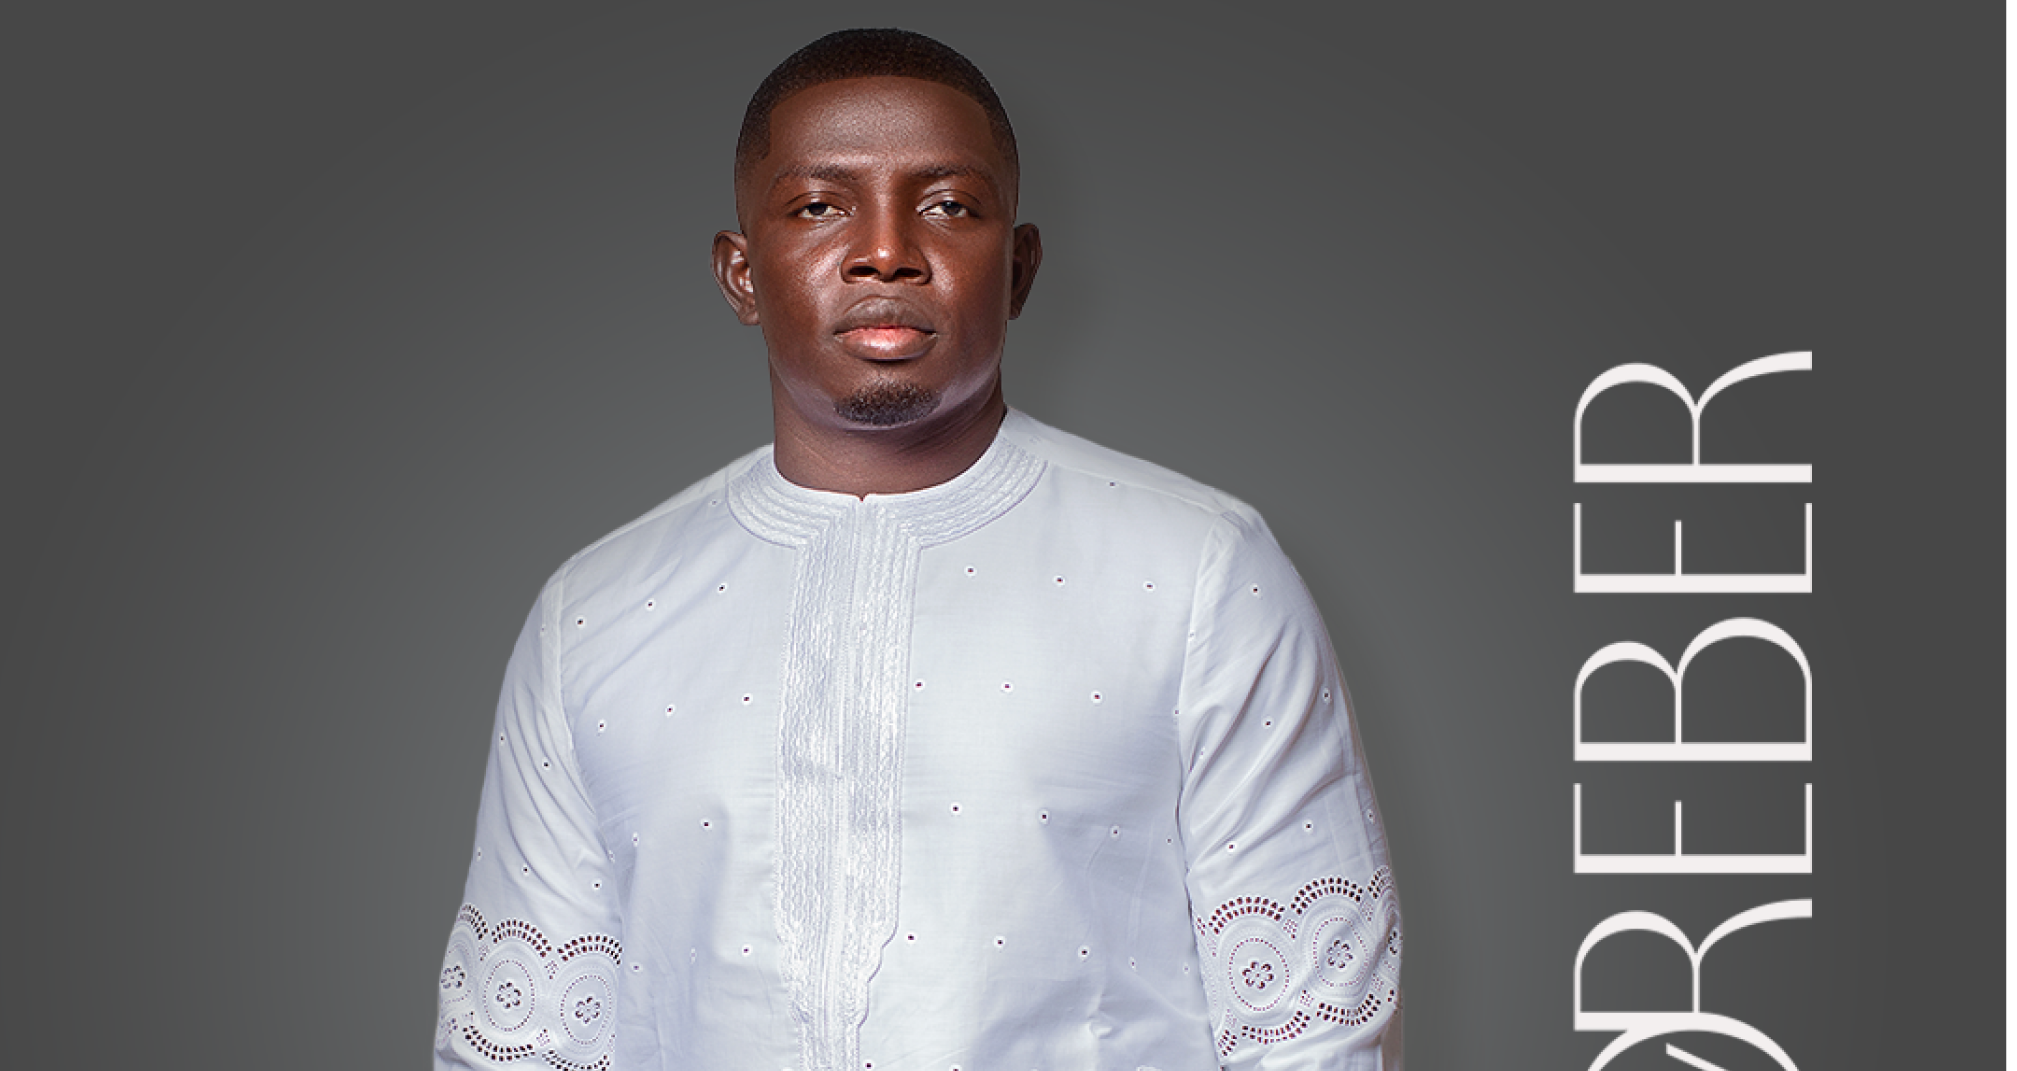
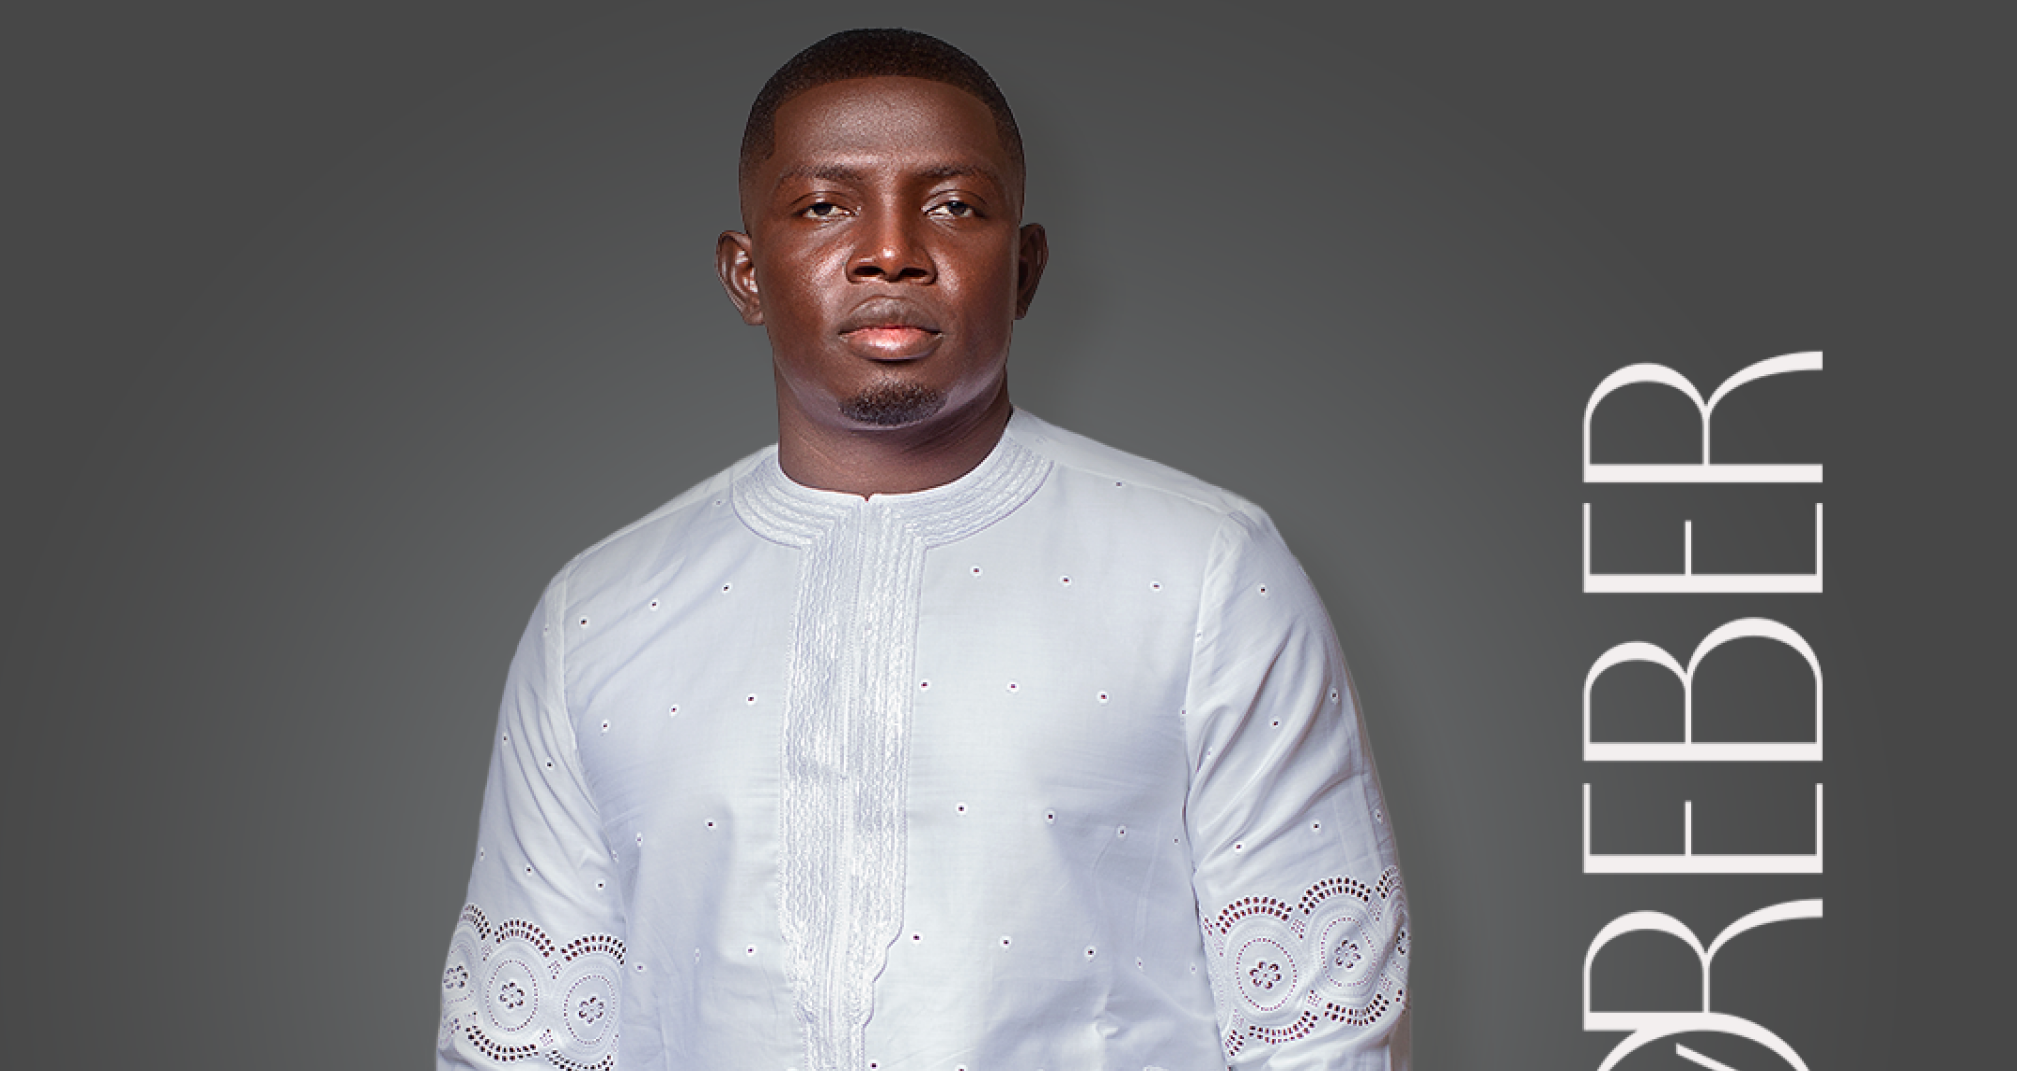
back to top added

diff --git a/src/components/QualitySection.jsx b/src/components/QualitySection.jsx
@@ -3,8 +3,8 @@ import { qualitybg } from '../assets'
 
 const QualitySection = () => {
   return (
-    <div className='relative items-center flex justify-center '>
-        <img src={qualitybg} alt="img" />
+    <div className='relative items-center flex justify-center w-full'>
+        <img className='w-full' src={qualitybg} alt="img" />
         <div className="quality-overlay absolute top-0 text-white flex flex-col text-center max-w-2xl h-full justify-center gap-8" >
             <h3>La qualité du personnel</h3>
             <p className='small'>Woreber Lord , dans sa quête de richesse, a incorporé les éléments de production nécessaires à cet effet, au premier rang desquels ses employés. De ce point de vue, les activités d'une entreprise, de l'administration au marketing en passant par la production, sont le travail de ses employés.</p>

diff --git a/src/components/BackToTop.jsx b/src/components/BackToTop.jsx
@@ -1,0 +1,33 @@
+import React from 'react'
+import { useState, useEffect } from 'react'
+import { arrowup } from '../assets'
+
+const BackToTop = () => {
+    const [backToTop, setBackToTop] = useState(false)
+    useEffect(() => {
+        window.addEventListener("scroll", () => {
+            if (window.scrollY > 100) {
+                setBackToTop(true);
+            } else {
+                setBackToTop(false);
+            }
+        })
+    }, [])
+
+    const scrollUp = () => {
+        window.scrollTo({
+            top: 0,
+            behavior: "smooth"
+        })
+    }
+
+  return (
+    <div>
+        {backToTop && (
+            <button onClick={scrollUp} className='back-to-top-btn flex justify-center items-center'><img src={arrowup} alt="" /></button>
+        )}
+    </div>
+  )
+}
+
+export default BackToTop

diff --git a/src/components/Slider.jsx b/src/components/Slider.jsx
@@ -27,9 +27,9 @@ export default function SliderComponent() {
                 }}
                 
                 modules={[Autoplay, Pagination, Navigation]}
-                className="mySwiper vh relative"
+                className="mySwiper w-full relative"
             >
-                <SwiperSlide className="relative">
+                <SwiperSlide className="relative w-full">
                     <img
                         className="object-fill w-full "
                         src={image5}

diff --git a/src/App.jsx b/src/App.jsx
@@ -10,6 +10,7 @@ import Aboutus from './Pages/Aboutus';
 import OnlineShop from './Pages/OnlineShop';
 import Blog from './Pages/Blog';
 import Contact from './Pages/Contact';
+import BackToTop from './components/BackToTop';
 
 const App = () => {
   return (
@@ -25,6 +26,7 @@ const App = () => {
           <Route path='/Blog' element={<Blog/>}/>
           <Route path='/Contact' element={<Contact/>}/>
         </Routes>
+        <BackToTop/>
        </div>
     </div>
   )

diff --git a/src/assets/index.js b/src/assets/index.js
@@ -38,6 +38,7 @@ import blogimg2 from './Blog img 2.png'
 import blogimg3 from './Blog img 3.png'
 import blogimg4 from './Blog img 4.png'
 import blogimg5 from './Blog img 5.png'
+import arrowup from './up-arrow.svg'
 
 
 
@@ -83,5 +84,6 @@ export {
     blogimg2,
     blogimg3,
     blogimg4,
-    blogimg5
+    blogimg5,
+    arrowup
 }

diff --git a/src/App.css b/src/App.css
@@ -70,6 +70,20 @@ h5 {
     background: #FFE69F;
 }
 
+.back-to-top-btn {
+    position: fixed;
+    bottom: 50px;
+    right: 50px;
+    height: 50px;
+    width: 50px;
+    font-size: medium;
+    background: #CB941E;
+    
+}
+.back-to-top-btn img {
+    width: 20px;
+}
+
 .quality-overlay {
     height: 538px;
 }
